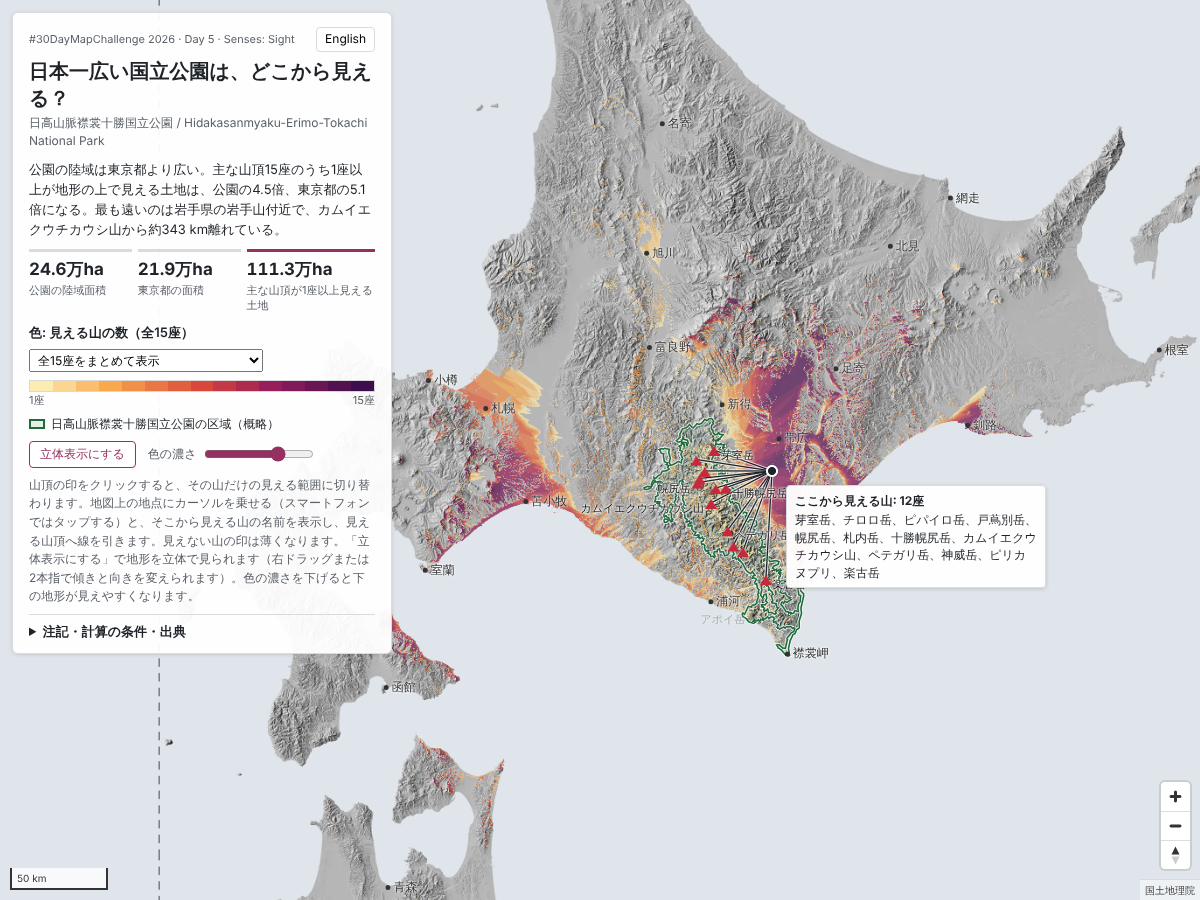
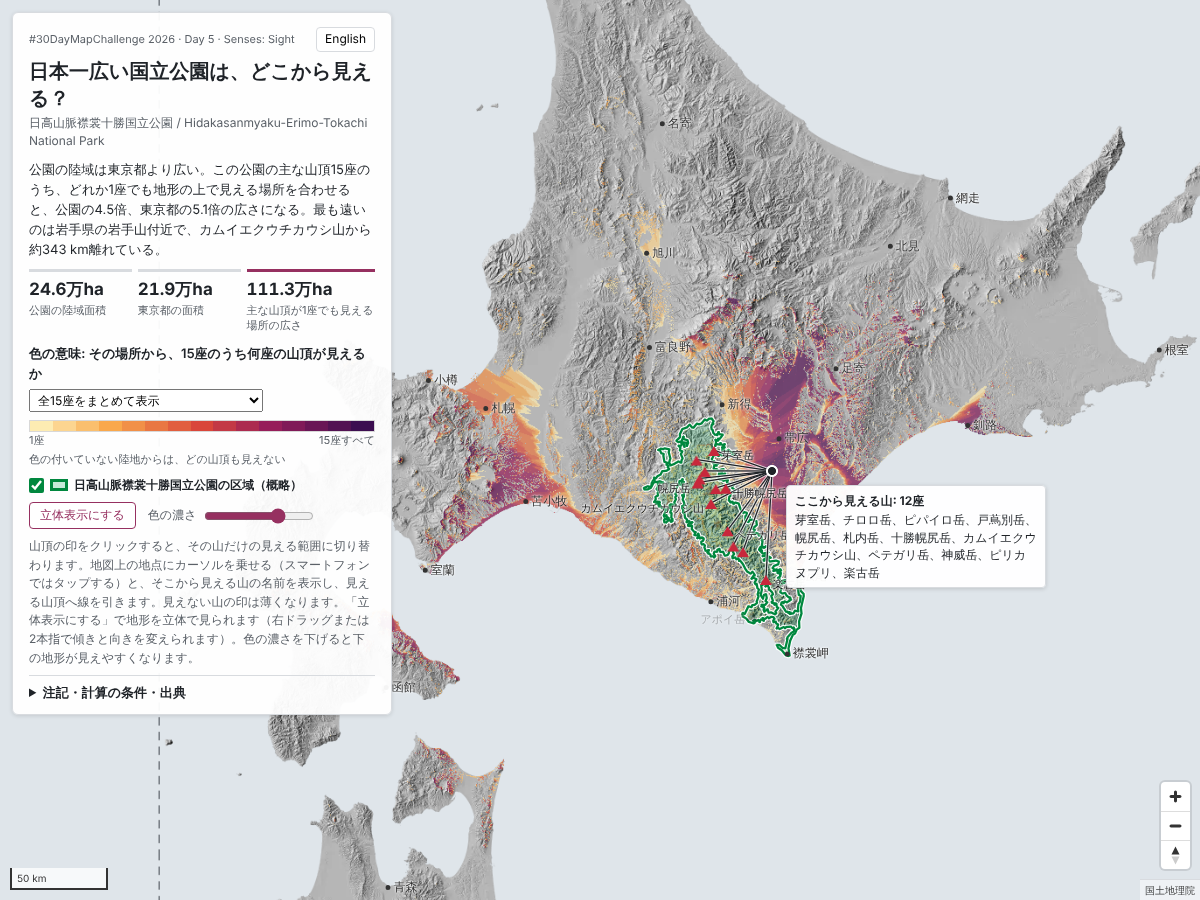
Make the park boundary bolder with an on/off switch, and clarify legend and visibility wording

Changed region(s): [[0.0, 0.1867, 0.3392, 0.8089], [0.5242, 0.4667, 0.6783, 0.7467]]

diff --git a/site/app.js b/site/app.js
@@ -29,15 +29,16 @@
     ja: {
       title: '日本一広い国立公園は、どこから見える？',
       subtitle: '日高山脈襟裳十勝国立公園 / Hidakasanmyaku-Erimo-Tokachi National Park',
-      lead: s => `公園の陸域は東京都より広い。主な山頂${N}座のうち1座以上が地形の上で見える土地は、公園の${s.ratio_park.toFixed(1)}倍、東京都の${s.ratio_tokyo.toFixed(1)}倍になる。最も遠いのは岩手県の岩手山付近で、${far.name_ja}から約${Math.round(far.farthest_km)} km離れている。`,
-      figPark: '公園の陸域面積', figTokyo: '東京都の面積', figVis: `主な山頂が1座以上見える土地`,
+      lead: s => `公園の陸域は東京都より広い。この公園の主な山頂${N}座のうち、どれか1座でも地形の上で見える場所を合わせると、公園の${s.ratio_park.toFixed(1)}倍、東京都の${s.ratio_tokyo.toFixed(1)}倍の広さになる。最も遠いのは岩手県の岩手山付近で、${far.name_ja}から約${Math.round(far.farthest_km)} km離れている。`,
+      figPark: '公園の陸域面積', figTokyo: '東京都の面積', figVis: '主な山頂が1座でも見える場所の広さ',
       hint: '山頂の印をクリックすると、その山だけの見える範囲に切り替わります。地図上の地点にカーソルを乗せる（スマートフォンではタップする）と、そこから見える山の名前を表示し、見える山頂へ線を引きます。見えない山の印は薄くなります。「立体表示にする」で地形を立体で見られます（右ドラッグまたは2本指で傾きと向きを変えられます）。色の濃さを下げると下の地形が見えやすくなります。',
       notesTitle: '注記・計算の条件・出典',
-      modeAll: '色: 見える山の数（全' + N + '座）',
-      modePeak: (p, r) => `${p.name_ja}（${p.elev_m.toLocaleString()} m）が見える土地: ${ha(p.visible_ha)}（公園の${r}倍）`,
+      modeAll: `色の意味: その場所から、${N}座のうち何座の山頂が見えるか`,
+      legendNone: '色の付いていない陸地からは、どの山頂も見えない',
+      modePeak: (p, r) => `赤い場所に立つと、${p.name_ja}（${p.elev_m.toLocaleString()} m）の山頂が見える。その広さは${ha(p.visible_ha)}（公園の${r}倍）`,
       back: '全体に戻る', pickAll: '全15座をまとめて表示',
       to3d: '立体表示にする', to2d: '平面表示に戻す', opacity: '色の濃さ', rangeLbl: '計算範囲', parkKey: '日高山脈襟裳十勝国立公園の区域（概略）',
-      legendLo: '1座', legendHi: N + '座', single: '見える土地',
+      legendLo: '1座', legendHi: N + '座すべて', single: 'この山頂が見える場所',
       tipNone: 'ここからは主な山頂が見えません', tipHead: n => `ここから見える山: ${n}座`,
       lang: 'English', ha: v => (v / 10000).toFixed(1) + '万ha',
       notes: () => `
@@ -57,7 +58,7 @@
 </ul>
 <h3>公園の区域</h3>
 <p>緑の線は、環境省 生物多様性「見える化」マップの国立公園区域（原典: 環境省 EADAS 自然公園区域、令和6年6月25日告示の公園計画書・公園計画図・GISデータ）をもとに、地種区分をまとめて1つの区域にしたものです。原典は区域の概要を示すもので誤差を含みます（このデータでの面積は約25.4万ha）。面積の比較には環境省の公表値（陸域245,668 ha）を使っています。</p>
-<h3>使った山頂（見える土地の面積）</h3>
+<h3>使った山頂（その山頂が見える場所の広さ）</h3>
 <table>${peaks.map(p => `<tr><td>${p.name_ja}</td><td class="r">${p.elev_m.toLocaleString()} m</td><td class="r">${ha(p.visible_ha)}</td></tr>`).join('')}</table>
 <h3>出典</h3>
 <ul>
@@ -71,15 +72,16 @@
     en: {
       title: "Where can you see Japan's largest national park from?",
       subtitle: '日高山脈襟裳十勝国立公園 / Hidakasanmyaku-Erimo-Tokachi National Park',
-      lead: s => `The park's land area is larger than Tokyo. Land from which at least one of its ${N} main peaks can be seen, by terrain alone, is ${s.ratio_park.toFixed(1)} times the park and ${s.ratio_tokyo.toFixed(1)} times Tokyo. The farthest such point is near Mount Iwate in Iwate Prefecture, about ${Math.round(far.farthest_km)} km from ${far.name_en}.`,
-      figPark: 'Park land area', figTokyo: 'Area of Tokyo', figVis: 'Land that sees at least one main peak',
+      lead: s => `The park's land area is larger than Tokyo. All the places from which at least one of its ${N} main peaks can be seen, by terrain alone, add up to ${s.ratio_park.toFixed(1)} times the park and ${s.ratio_tokyo.toFixed(1)} times Tokyo. The farthest such point is near Mount Iwate in Iwate Prefecture, about ${Math.round(far.farthest_km)} km from ${far.name_en}.`,
+      figPark: 'Park land area', figTokyo: 'Area of Tokyo', figVis: 'Area of places that can see at least one main peak',
       hint: 'Click a peak marker to show the area that sees that peak only. Hover over the map (tap on a phone) to list the peaks visible from that point; lines are drawn to the visible summits and the other peak markers fade. "Show in 3D" drapes the map over the terrain (right-drag or two fingers to tilt and rotate). Lower the colour opacity to see more of the terrain.',
       notesTitle: 'Notes, method and sources',
-      modeAll: `Colour: number of peaks visible (of ${N})`,
-      modePeak: (p, r) => `Land that sees ${p.name_en} (${p.elev_m.toLocaleString()} m): ${ha(p.visible_ha)} (${r} times the park)`,
+      modeAll: `Colour: how many of the ${N} peaks can be seen from each place`,
+      legendNone: 'Uncoloured land cannot see any of them',
+      modePeak: (p, r) => `Stand anywhere in red and you can see the summit of ${p.name_en} (${p.elev_m.toLocaleString()} m). That area is ${ha(p.visible_ha)} (${r} times the park)`,
       back: 'Show all', pickAll: 'All 15 peaks combined',
       to3d: 'Show in 3D', to2d: 'Back to 2D', opacity: 'Colour opacity', rangeLbl: 'Calculation extent', parkKey: 'Hidakasanmyaku-Erimo-Tokachi National Park (approximate)',
-      legendLo: '1 peak', legendHi: N + ' peaks', single: 'Visible land',
+      legendLo: '1 peak', legendHi: 'all ' + N, single: 'Places that can see this summit',
       tipNone: 'No main peak visible from here', tipHead: n => `Peaks visible from here: ${n}`,
       lang: '日本語', ha: v => Math.round(v).toLocaleString('en') + ' ha',
       notes: () => `
@@ -99,7 +101,7 @@
 </ul>
 <h3>Park boundary</h3>
 <p>The green line is the national park area from the Ministry of the Environment Biodiversity Map (original data: Ministry of the Environment EADAS natural park areas, based on the park plan and GIS data announced on 25 June 2024), with all zones merged into one area. The original data shows the outline only and contains errors (about 254,000 ha in this data). Area comparisons use the Ministry's published land area of 245,668 ha.</p>
-<h3>Peaks used (visible land area)</h3>
+<h3>Peaks used (area of places that can see each summit)</h3>
 <table>${peaks.map(p => `<tr><td>${p.name_en}<br><span style="color:#777">${p.name_ja}</span></td><td class="r">${p.elev_m.toLocaleString()} m</td><td class="r">${ha(p.visible_ha)}</td></tr>`).join('')}</table>
 <h3>Sources</h3>
 <ul>
@@ -136,12 +138,14 @@
       layers: [
         { id: 'bg', type: 'background', paint: { 'background-color': '#dfe5ea' } },
         { id: 'hs', type: 'raster', source: 'hs', paint: { 'raster-opacity': 1 } },
-        { id: 'park-fill', type: 'fill', source: 'park', paint: { 'fill-color': '#2f7a4b', 'fill-opacity': 0.12 } },
         { id: 'vis-count', type: 'raster', source: 'count', paint: { 'raster-opacity': 0.7, 'raster-resampling': 'nearest', 'raster-fade-duration': 0 } },
         { id: 'vis-peak', type: 'raster', source: 'peak', layout: { visibility: 'none' }, paint: { 'raster-opacity': 0.7, 'raster-resampling': 'nearest', 'raster-fade-duration': 0 } },
         { id: 'range', type: 'line', source: 'range', paint: { 'line-color': '#5b6168', 'line-width': 1.2, 'line-dasharray': [4, 3] } },
-        { id: 'park-casing', type: 'line', source: 'park', paint: { 'line-color': '#ffffff', 'line-width': 3.4, 'line-opacity': 0.8 } },
-        { id: 'park-line', type: 'line', source: 'park', paint: { 'line-color': '#1f6b3d', 'line-width': 1.6 } },
+        { id: 'park-fill', type: 'fill', source: 'park', paint: { 'fill-color': '#00a651', 'fill-opacity': 0.22 } },
+        { id: 'park-casing', type: 'line', source: 'park', layout: { 'line-join': 'round' },
+          paint: { 'line-color': '#ffffff', 'line-opacity': 0.95, 'line-width': ['interpolate', ['linear'], ['zoom'], 6, 4, 10, 7] } },
+        { id: 'park-line', type: 'line', source: 'park', layout: { 'line-join': 'round' },
+          paint: { 'line-color': '#00873e', 'line-width': ['interpolate', ['linear'], ['zoom'], 6, 2, 10, 3.5] } },
         { id: 'sight-casing', type: 'line', source: 'sight', filter: ['==', ['geometry-type'], 'LineString'],
           layout: { 'line-cap': 'round' }, paint: { 'line-color': '#ffffff', 'line-width': 3.2, 'line-opacity': 0.75 } },
         { id: 'sight-line', type: 'line', source: 'sight', filter: ['==', ['geometry-type'], 'LineString'],
@@ -294,7 +298,12 @@
     render();
   }
 
-  const parkKey = t => `<div class="single park-key"><span class="pk"></span>${t.parkKey}</div>`;
+  let parkOn = true;
+  const parkKey = t => `<label class="single park-key"><input type="checkbox" id="parkToggle"${parkOn ? ' checked' : ''}><span class="pk"></span>${t.parkKey}</label>`;
+  function setPark(on) {
+    parkOn = on;
+    ['park-fill', 'park-casing', 'park-line'].forEach(l => map.setLayoutProperty(l, 'visibility', on ? 'visible' : 'none'));
+  }
   function render() {
     const t = T[lang];
     document.documentElement.lang = lang;
@@ -317,7 +326,7 @@
     } else {
       mode.textContent = t.modeAll;
       lg.innerHTML = '<div class="bar">' + Object.values(layers.colors).map(c => `<span style="background:${c}"></span>`).join('') +
-        `</div><div class="ticks"><span>${t.legendLo}</span><span>${t.legendHi}</span></div>` + parkKey(t);
+        `</div><div class="ticks"><span>${t.legendLo}</span><span>${t.legendHi}</span></div><div class="none">${t.legendNone}</div>` + parkKey(t);
     }
     const pick = document.getElementById('pick');
     pick.innerHTML = `<option value="">${t.pickAll}</option>` + peaks.map(p =>
@@ -357,6 +366,9 @@
   });
   document.getElementById('op').addEventListener('input', e => {
     ['vis-count', 'vis-peak'].forEach(l => map.setPaintProperty(l, 'raster-opacity', Number(e.target.value) / 100));
+  });
+  document.getElementById('legend').addEventListener('change', e => {
+    if (e.target.id === 'parkToggle') setPark(e.target.checked);
   });
   document.getElementById('lang').addEventListener('click', () => {
     lang = lang === 'ja' ? 'en' : 'ja';

diff --git a/site/style.css b/site/style.css
@@ -34,8 +34,10 @@ h1 { font-size: 20px; line-height: 1.35; margin: 6px 0 2px; }
 #legend .bar span { flex: 1; }
 #legend .ticks { display: flex; justify-content: space-between; font-size: 11px; color: var(--muted); }
 #legend .single { display: flex; align-items: center; gap: 6px; font-size: 12px; }
-#legend .park-key { margin-top: 6px; }
-#legend .pk { width: 16px; height: 10px; border: 2px solid #1f6b3d; background: rgba(47,122,75,.12); display: inline-block; }
+#legend .none { font-size: 11px; color: var(--muted); margin-top: 2px; }
+#legend .park-key { margin-top: 8px; cursor: pointer; font-weight: 600; }
+#legend .park-key input { margin: 0; accent-color: #00873e; width: 15px; height: 15px; cursor: pointer; }
+#legend .pk { width: 18px; height: 12px; border: 3px solid #00873e; background: rgba(0,166,81,.22); display: inline-block; flex: none; }
 #legend .sw { width: 14px; height: 14px; background: #c8283c; display: inline-block; }
 #view { display: flex; align-items: center; gap: 12px; flex-wrap: wrap; margin-top: 8px; }
 #btn3d { font: inherit; font-size: 12px; border: 1px solid var(--accent); color: var(--accent); background: #fff; border-radius: 4px; padding: 3px 10px; cursor: pointer; }

diff --git a/site/index.html b/site/index.html
@@ -28,7 +28,7 @@
   <div class="figs">
     <div><span class="num" id="f-park"></span><span class="lbl" data-i18n="figPark">公園の陸域面積</span></div>
     <div><span class="num" id="f-tokyo"></span><span class="lbl" data-i18n="figTokyo">東京都の面積</span></div>
-    <div class="hl"><span class="num" id="f-vis"></span><span class="lbl" data-i18n="figVis">主な山頂が1座以上見える土地</span></div>
+    <div class="hl"><span class="num" id="f-vis"></span><span class="lbl" data-i18n="figVis">主な山頂が1座でも見える場所の広さ</span></div>
   </div>
   <div id="mode"></div>
   <select id="pick" aria-label="山を選ぶ / Choose a peak"></select>

diff --git a/scripts/05_card.py b/scripts/05_card.py
@@ -95,16 +95,23 @@ def main():
     # 国立公園の区域（概略）
     park = json.load(open(os.path.join(ROOT, "site", "data", "park.geojson"), encoding="utf-8"))
     rings = []
+    over = Image.new("RGBA", img.size, (0, 0, 0, 0))
+    od = ImageDraw.Draw(over)
     for feat in park["features"]:
         g = feat["geometry"]
         polys = g["coordinates"] if g["type"] == "MultiPolygon" else [g["coordinates"]]
         for poly in polys:
-            for ring in poly:
-                rings.append([px(lon, lat) for lon, lat in ring])
+            pr = [[px(lon, lat) for lon, lat in ring] for ring in poly]
+            od.polygon(pr[0], fill=(0, 166, 81, 56))
+            for hole in pr[1:]:
+                od.polygon(hole, fill=(0, 0, 0, 0))
+            rings += pr
+    img.paste(Image.alpha_composite(img.convert("RGBA"), over).convert("RGB"))
+    d = ImageDraw.Draw(img)
     for ring in rings:
-        d.line(ring, fill=(255, 255, 255), width=5, joint="curve")
+        d.line(ring, fill=(255, 255, 255), width=7, joint="curve")
     for ring in rings:
-        d.line(ring, fill=(31, 107, 61), width=2, joint="curve")
+        d.line(ring, fill=(0, 135, 62), width=3, joint="curve")
 
     for name, lon, lat in PLACES:
         x, y = px(lon, lat)
@@ -126,19 +133,19 @@ def main():
     d.text((42, 92), "日高山脈襟裳十勝国立公園 / Hidakasanmyaku-Erimo-Tokachi National Park", font=f(20), fill=(90, 96, 104))
     vis_man = stats["visible_any_ha"] / 10000
     d.text((42, 132), f"公園の陸域 24.6万ha は東京都（21.9万ha）より広い。", font=f(24), fill=(25, 28, 32))
-    d.text((42, 166), f"主な山頂{n}座のどれかが見える土地は {vis_man:.1f}万ha。公園の{stats['ratio_park']:.1f}倍、東京都の{stats['ratio_tokyo']:.1f}倍。",
+    d.text((42, 166), f"主な山頂{n}座のどれかが見える場所は {vis_man:.1f}万ha。公園の{stats['ratio_park']:.1f}倍、東京都の{stats['ratio_tokyo']:.1f}倍。",
            font=f(24), fill=(150, 48, 96))
 
     # legend
     lx, ly, w = 820, HEAD + 22, 340
     d.rectangle((lx - 14, ly - 12, lx + w + 14, ly + 100), fill=(255, 255, 255), outline=(210, 214, 218))
-    d.text((lx, ly), "見える山の数", font=f(18), fill=(25, 28, 32))
+    d.text((lx, ly), "その場所から見える山頂の数", font=f(18), fill=(25, 28, 32))
     for k in range(1, n + 1):
         x = lx + (k - 1) * w / n
         d.rectangle((x, ly + 28, lx + k * w / n, ly + 44), fill=ramp(k))
     d.text((lx, ly + 48), "1座", font=f(15), fill=(90, 96, 104))
-    d.text((lx + w, ly + 48), f"{n}座", font=f(15), fill=(90, 96, 104), anchor="ra")
-    d.rectangle((lx, ly + 76, lx + 22, ly + 90), fill=(255, 255, 255), outline=(31, 107, 61), width=2)
+    d.text((lx + w, ly + 48), f"{n}座すべて", font=f(15), fill=(90, 96, 104), anchor="ra")
+    d.rectangle((lx, ly + 76, lx + 22, ly + 90), fill=(204, 237, 219), outline=(0, 135, 62), width=3)
     d.text((lx + 30, ly + 83), "国立公園の区域（概略）", font=f(15), fill=(25, 28, 32), anchor="lm")
 
     # footer

diff --git a/README.md b/README.md
@@ -19,7 +19,7 @@
 | --- | --- |
 | 公園の陸域面積 | 245,668 ha |
 | 東京都の面積 | 219,405 ha |
-| 主な山頂が1座以上見える土地 | 1,113,149 ha（公園の4.5倍、東京都の5.1倍） |
+| 主な山頂が1座でも見える場所の広さ | 1,113,149 ha（公園の4.5倍、東京都の5.1倍） |
 
 最も遠く見える地点は岩手県の岩手山付近で、カムイエクウチカウシ山から約343 km 離れています。見える土地のうち約2.0万 ha は本州北部にあります。
 
@@ -57,7 +57,7 @@ SNS投稿用の画像: [site/card.png](site/card.png)
 
 国土地理院「日本の主な山岳標高」（2026年3月31日版、CSV）から選んだ15座です。面積は、その山が見える陸地の面積です。
 
-| 山名 | English | 標高 (m) | 緯度, 経度 | 見える土地 (ha) | 最も遠い見える地点 (km) |
+| 山名 | English | 標高 (m) | 緯度, 経度 | その山頂が見える場所の広さ (ha) | 最も遠い見える地点 (km) |
 | --- | --- | ---: | --- | ---: | ---: |
 | 芽室岳 | Mount Memuro | 1,753 | 42.868967, 142.785395 | 498,839 | 234.3 |
 | チロロ岳 | Mount Chiroro | 1,880 | 42.825585, 142.675406 | 542,368 | 291.2 |
